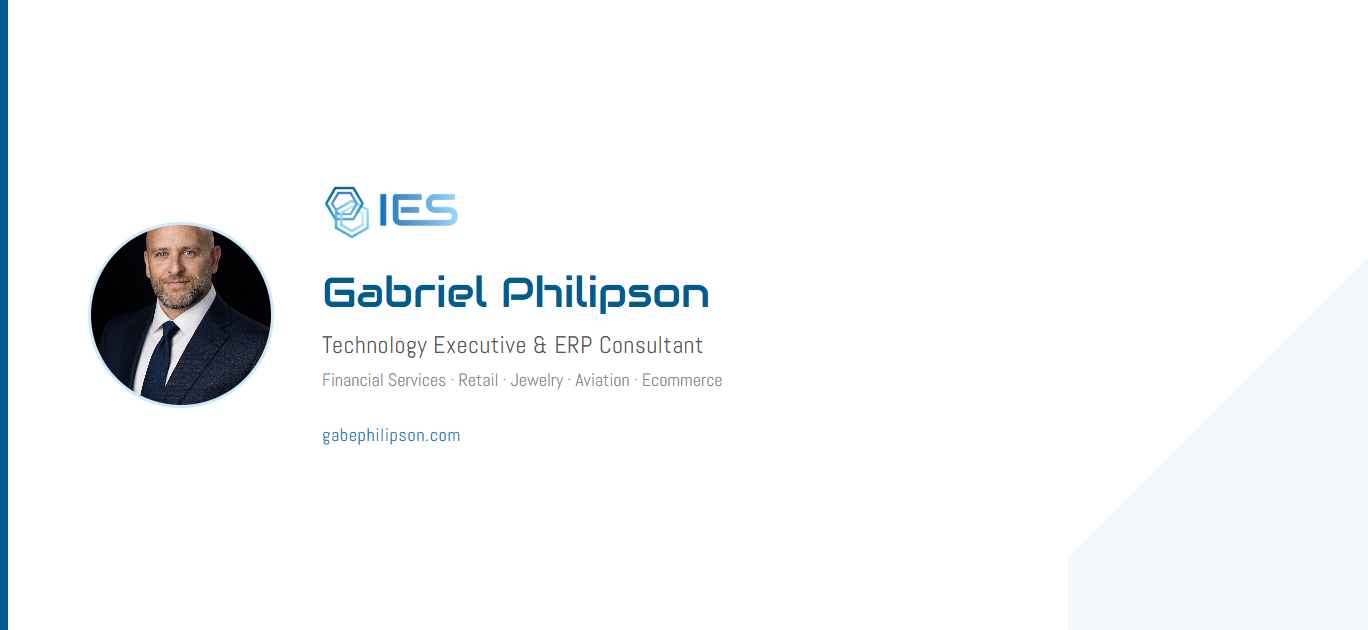
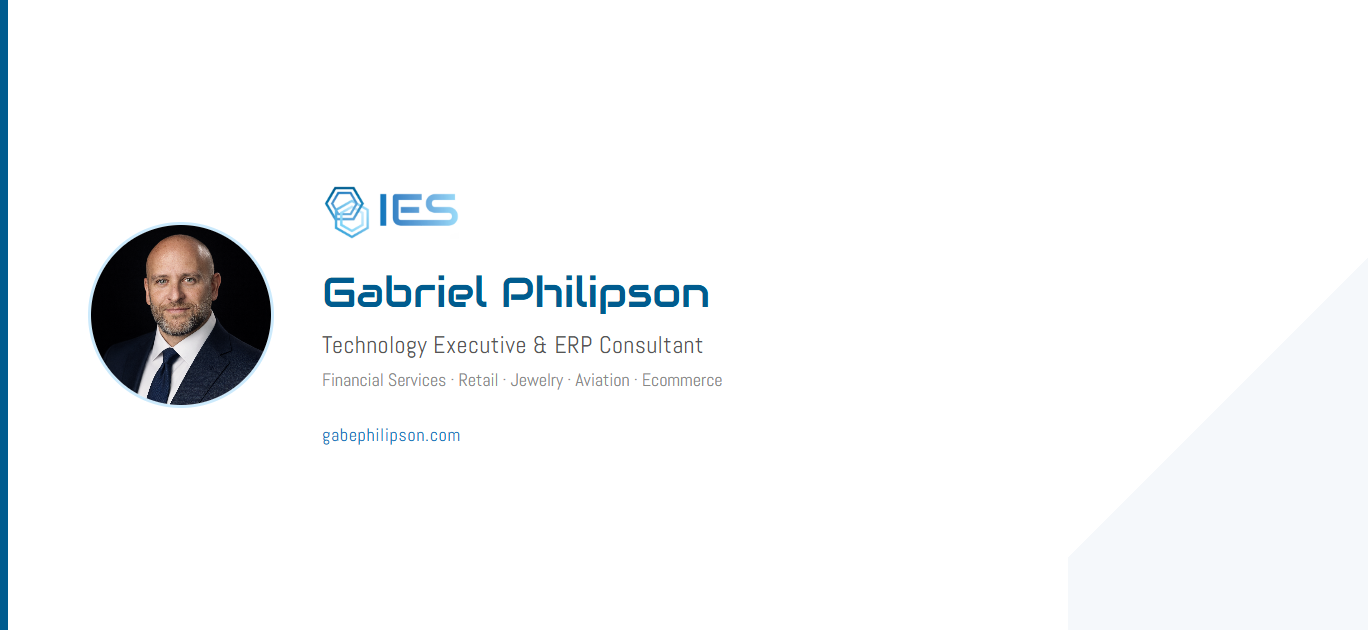
Adjust OG image photo position to show full head
Shifted object-position to center 20% so the circular crop
captures the full head instead of cutting off the top.

Changed region(s): [[0.0614, 0.3317, 0.2149, 0.6333]]

diff --git a/public/og-preview.html b/public/og-preview.html
@@ -41,7 +41,7 @@
     width: 100%;
     height: 100%;
     object-fit: cover;
-    object-position: center center;
+    object-position: center 20%;
   }
   .og-content {
     z-index: 1;
